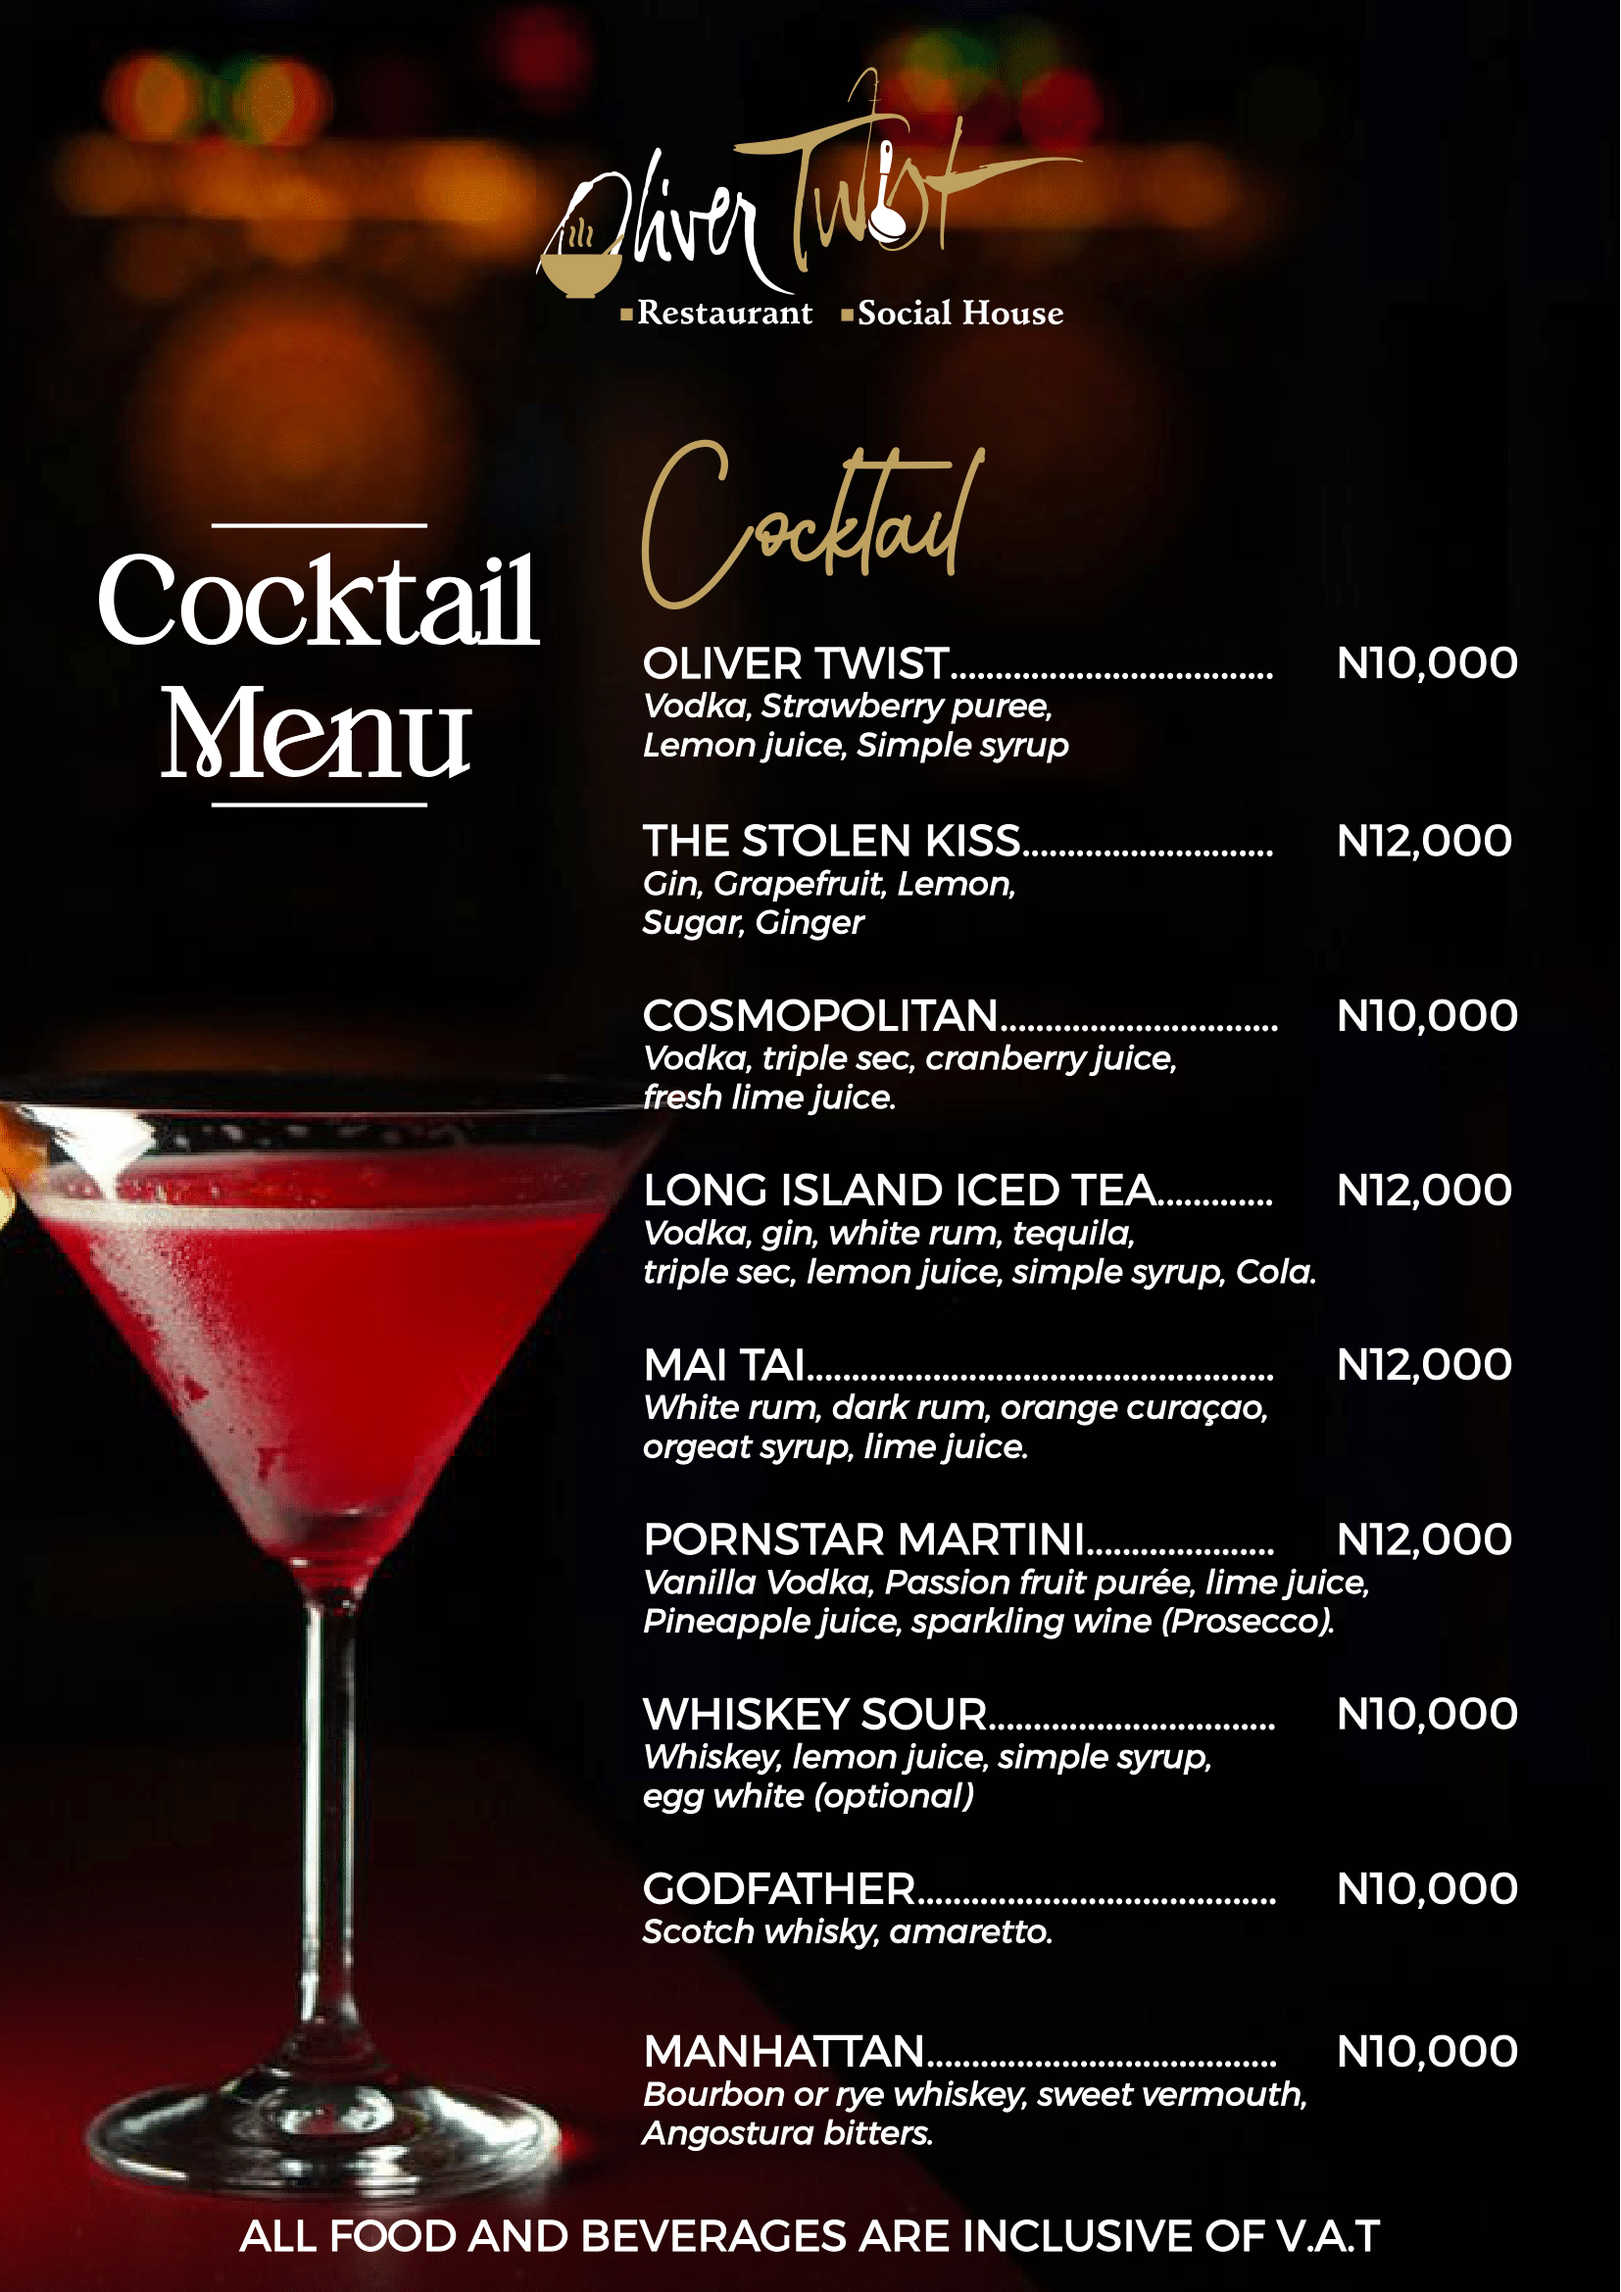
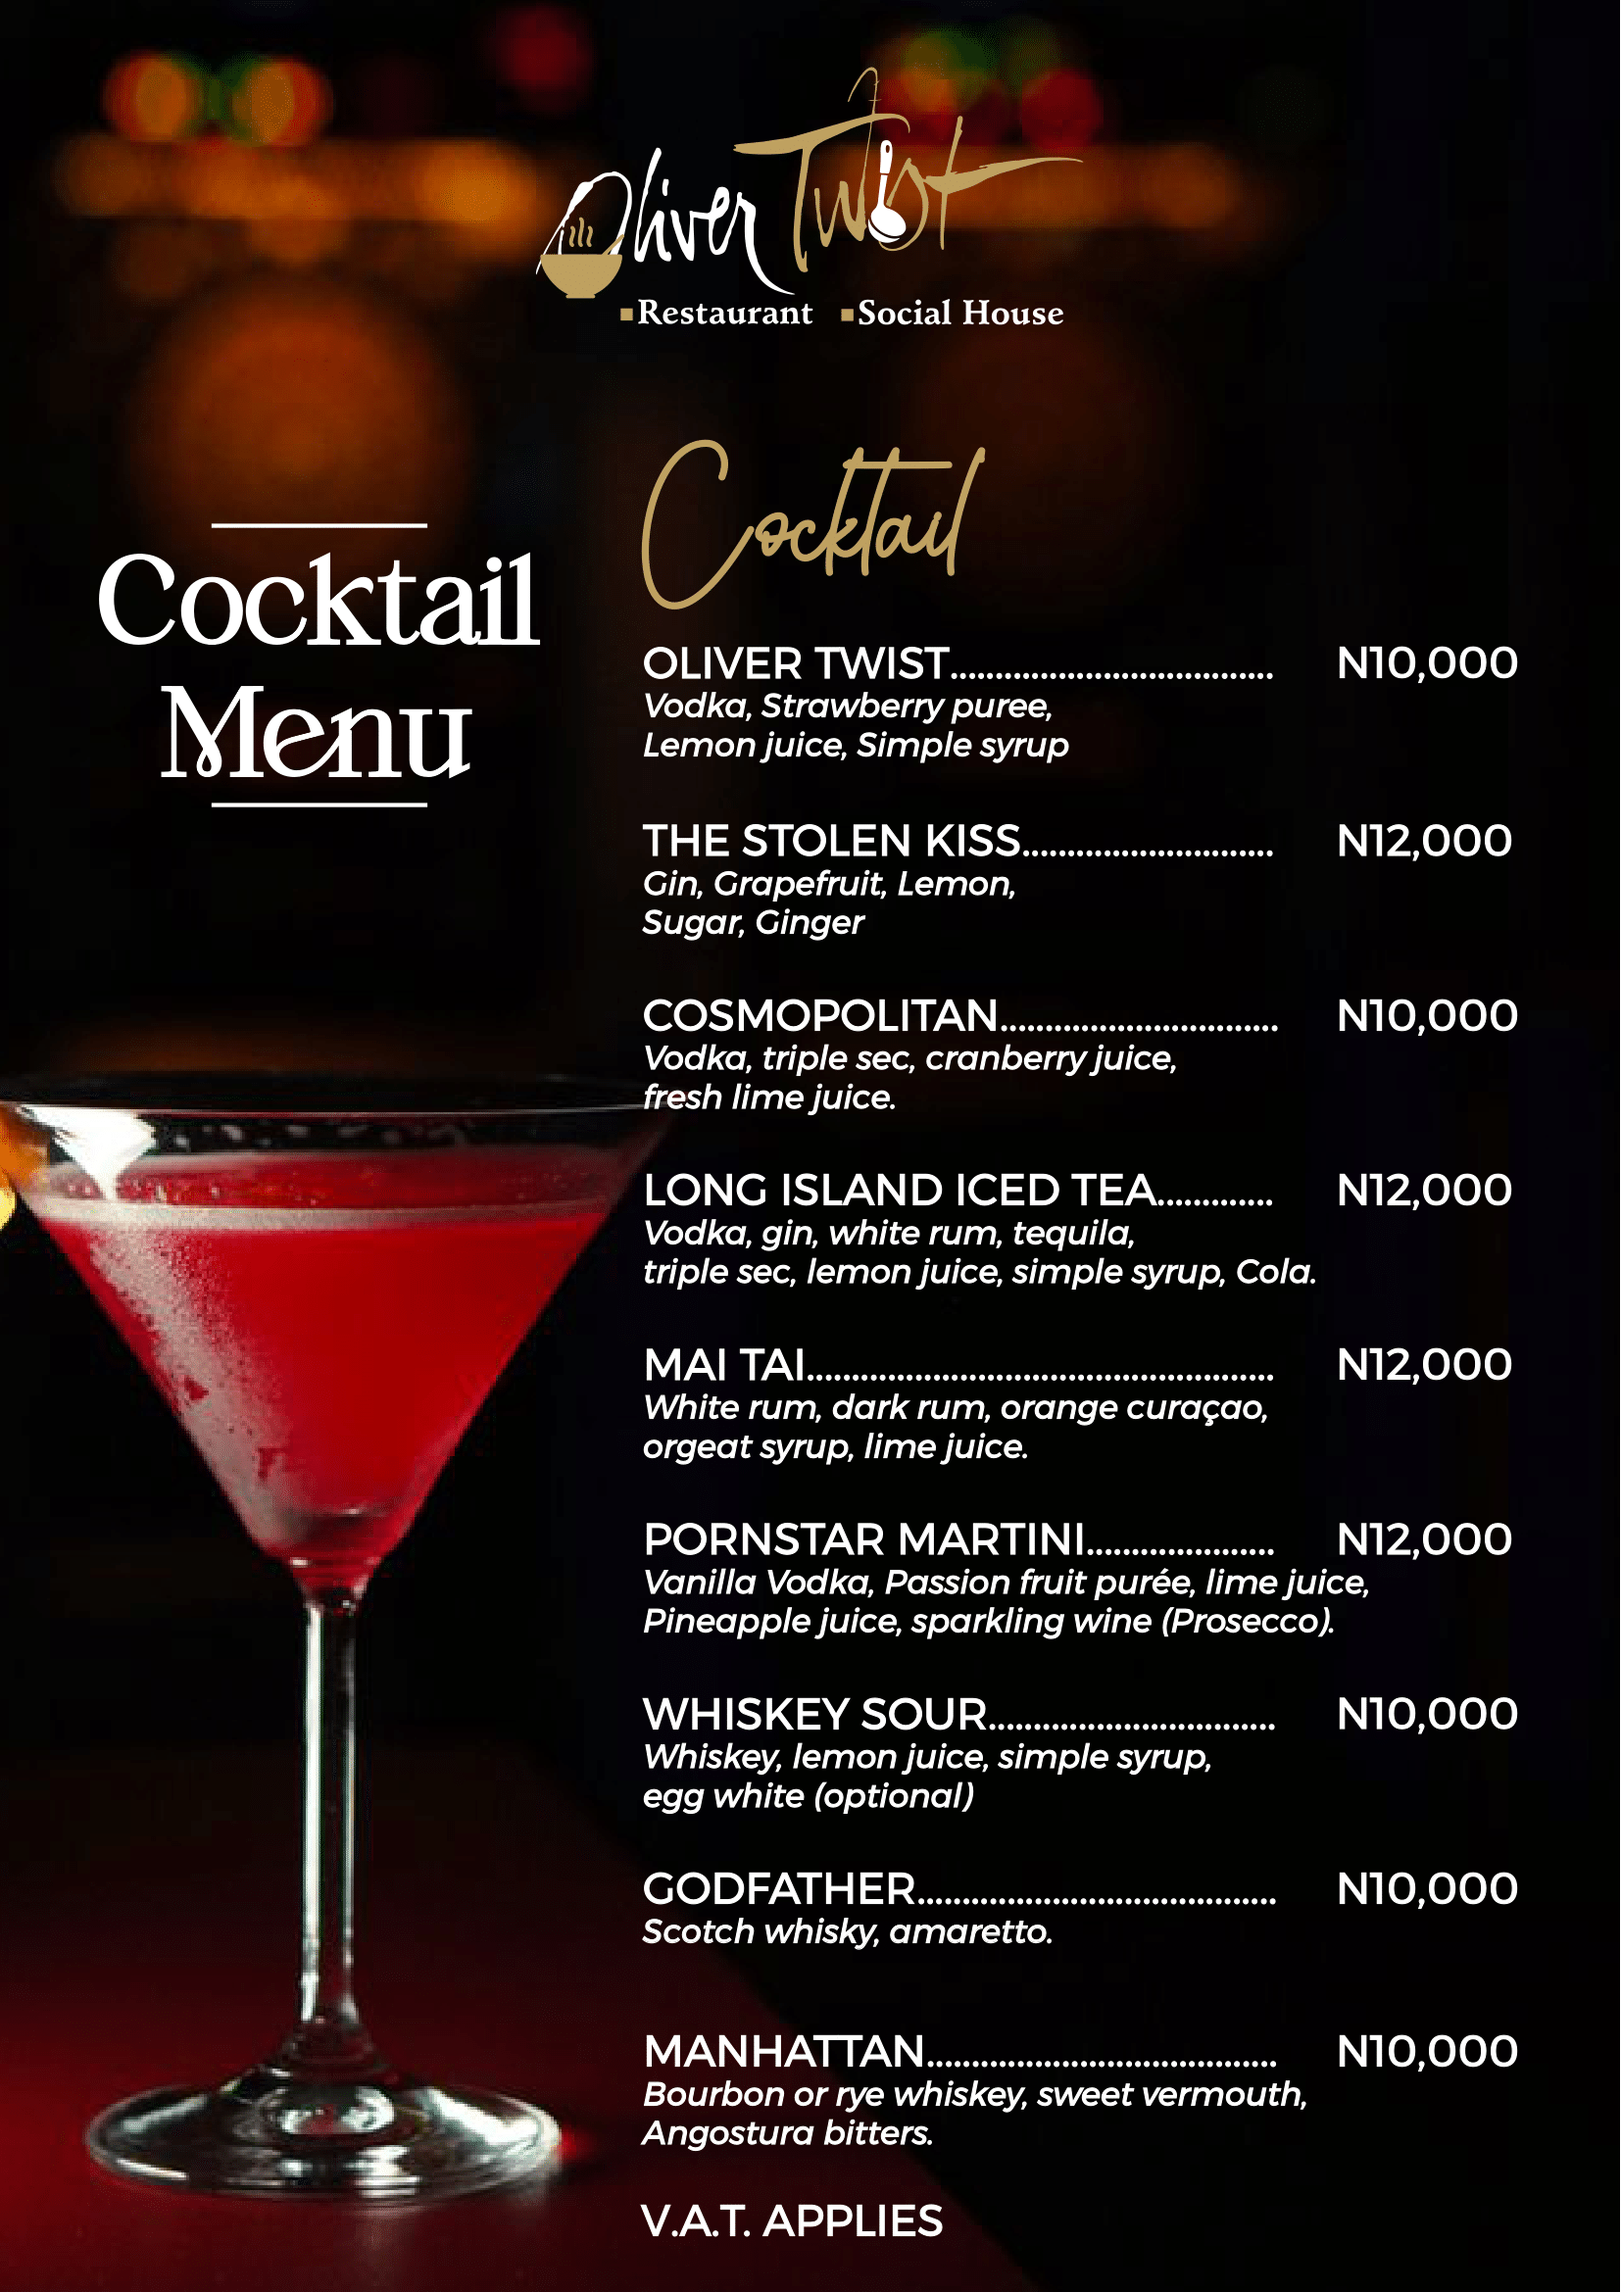
Hot Fix

diff --git a/src/pages/index.jsx b/src/pages/index.jsx
@@ -3,7 +3,8 @@ import React from 'react';
 import BottleA from '../assets/pdf/Bottle Price List-1.png';
 import BottleB from '../assets/pdf/Bottle Price List-2.png';
 import BottleC from '../assets/pdf/Bottle Price List-3.png';
-import Cocktail from '../assets/pdf/Cocktail Menu-1.png';
+import CocktailA from '../assets/pdf/Cocktail Menu-1.png';
+import CocktailB from '../assets/pdf/Cocktail Menu-2.png';
 import Mocktail from '../assets/pdf/Mocktail Menu-1.png';
 import Shots from '../assets/pdf/Shots & Shooters-1.png';
 import FoodA from '../assets/pdf/Food Price List-1.png';
@@ -12,7 +13,7 @@ import FoodC from '../assets/pdf/Food Price List-3.png';
 import FoodD from '../assets/pdf/Food Price List-4.png';
 import Grills from '../assets/pdf/GRILLS PRICE LIST-1.png';
 import Beer from '../assets/pdf/BEER MENU-1.png';
-import Shisha from '../assets/pdf/Shisha-1.png';
+import Shisha from '../assets/pdf/Cigarette & Shisha-1.png';
 
 
 const HomePage = () => {
@@ -25,7 +26,8 @@ const HomePage = () => {
         <img src={FoodD} alt="Menu" style={{ width: '100%' }} />
         <img src={Grills} alt="Menu" style={{ width: '100%' }} />
         <img src={Mocktail} alt="Menu" style={{ width: '100%' }} />
-        <img src={Cocktail} alt="Menu" style={{ width: '100%' }} />
+        <img src={CocktailA} alt="Menu" style={{ width: '100%' }} />
+        <img src={CocktailB} alt="Menu" style={{ width: '100%' }} />
         <img src={Shots} alt="Menu" style={{ width: '100%' }} />
         <img src={BottleA} alt="Menu" style={{ width: '100%' }} />
         <img src={BottleB} alt="Menu" style={{ width: '100%' }} />
